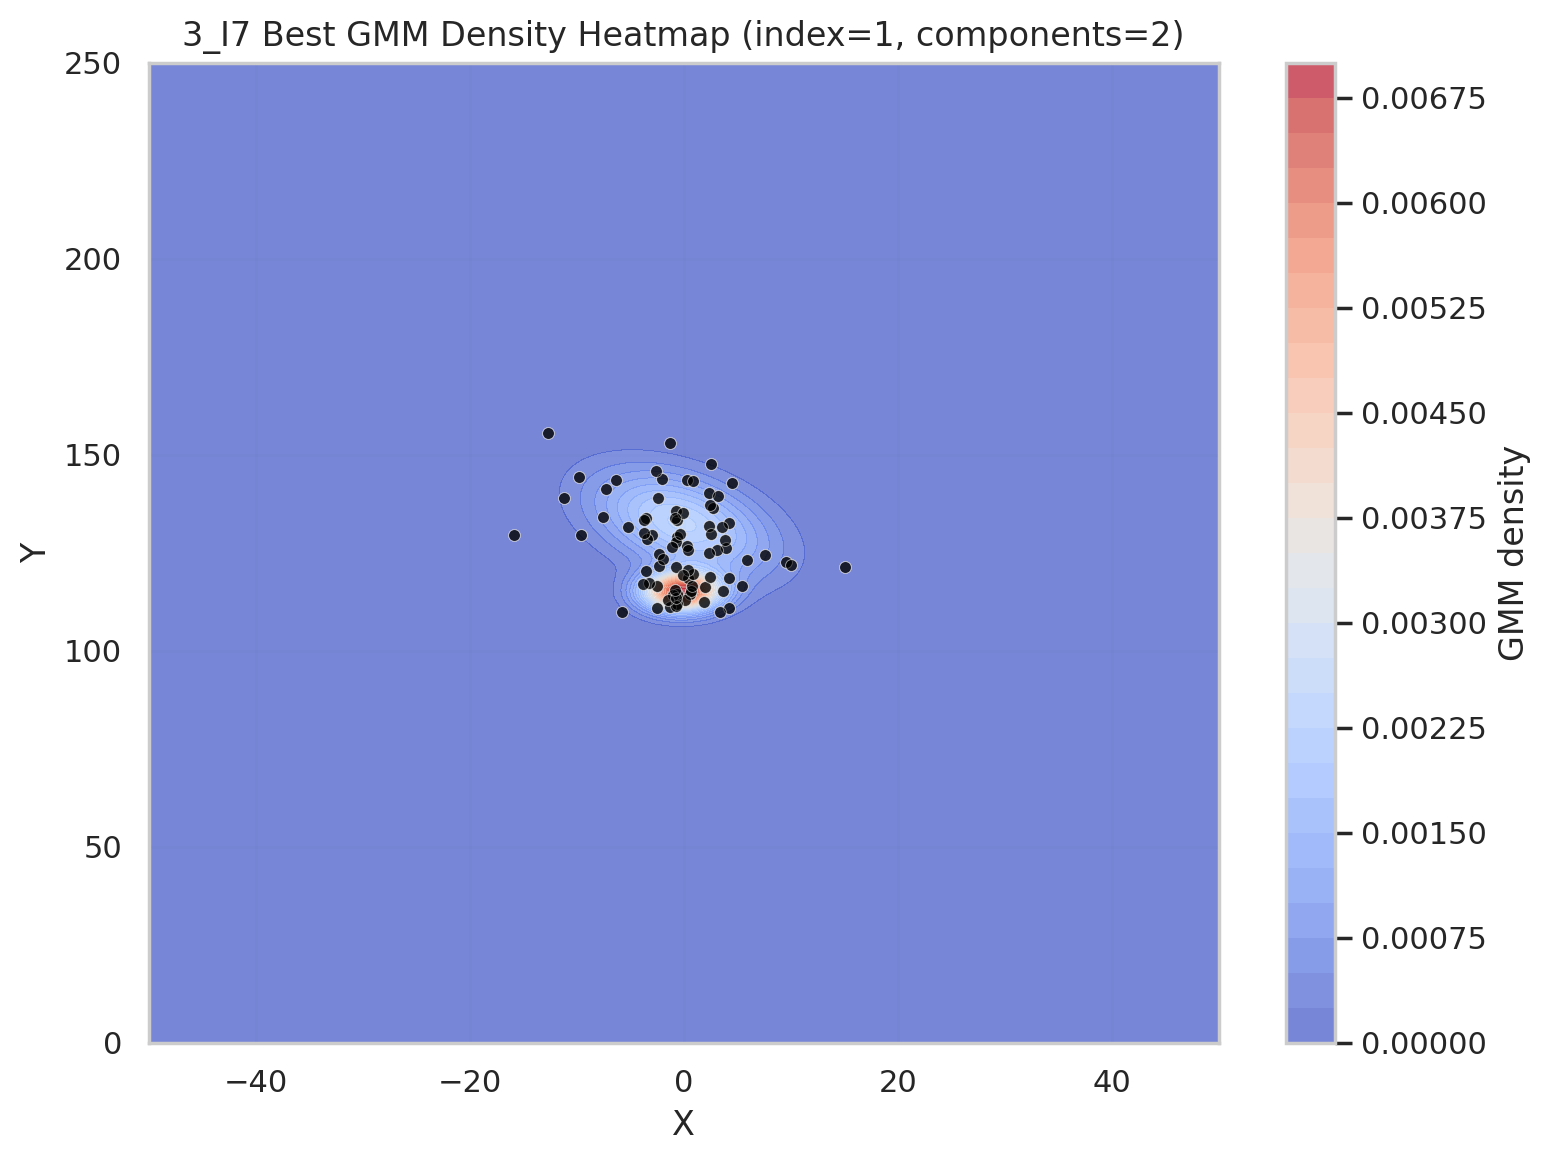
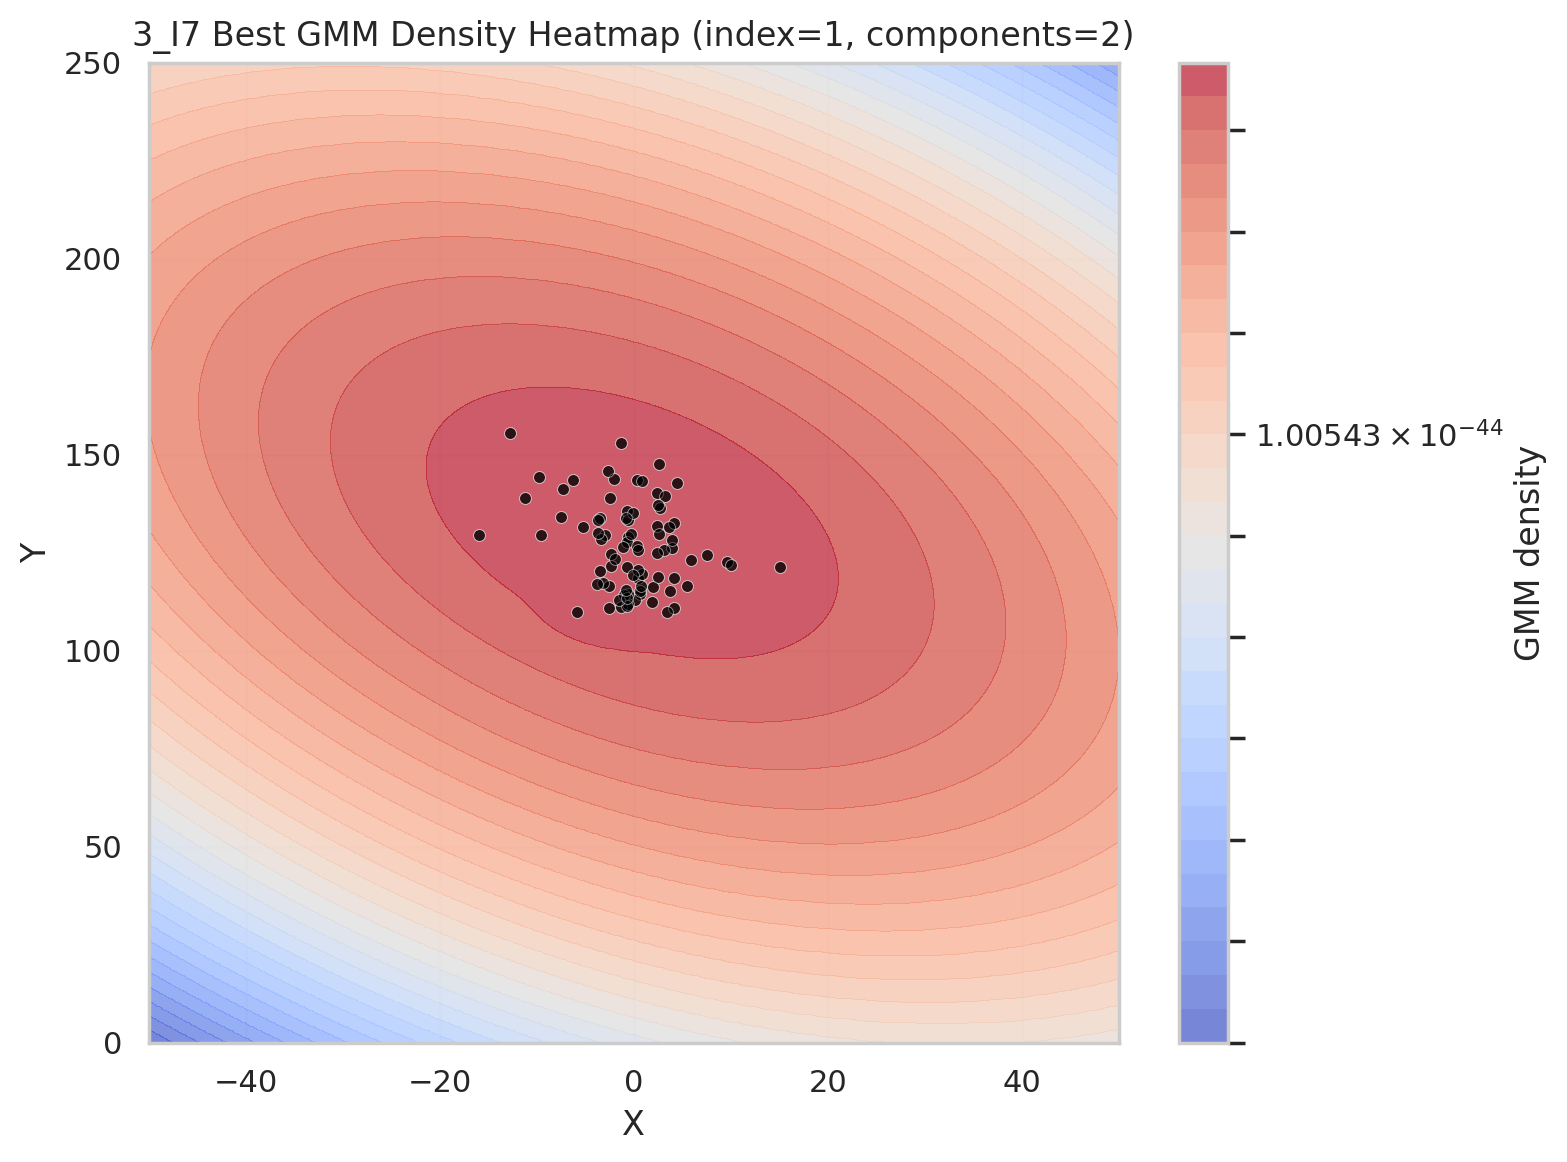
visuals

diff --git a/Visuals/visuals.py b/Visuals/visuals.py
@@ -1,3 +1,4 @@
+from matplotlib import colors
 from matplotlib.patches import Ellipse
 import matplotlib.pyplot as plt
 import numpy as np
@@ -175,11 +176,18 @@ def plot_gmm_heat(gmms, best_idx, data, name):
     density = np.exp(log_density).reshape(xx.shape)
 
     fig, ax = plt.subplots(figsize=(8, 6))
+    positive_density = density[density > 0]
+    if positive_density.size == 0:
+        raise ValueError("GMM density must contain positive values for heatmap plotting.")
+
+    vmin = positive_density.min()
+    vmax = positive_density.max()
     heat = ax.contourf(
         xx,
         yy,
         density,
-        levels=30,
+        levels=np.geomspace(vmin, vmax, 30),
+        norm=colors.LogNorm(vmin=vmin, vmax=vmax),
         cmap="coolwarm",
         alpha=0.7,
     )
@@ -207,4 +215,68 @@ def plot_gmm_heat(gmms, best_idx, data, name):
     ax.grid(alpha=0.15)
     fig.tight_layout()
     fig.savefig(output_dir / "gmm_best_model_heat.png", dpi=200, bbox_inches="tight")
+    plt.close(fig)
+
+def plot_gmm_samples(gmms, best_idx, data, name, n_samples=100):
+    """Save a two-panel figure showing data and GMM samples from the best model.
+
+    Args:
+        gmms (list): List of fitted sklearn GaussianMixture models.
+        best_idx (int): Index of the best model in gmms.
+        data (DataFrame): Data containing X and Y columns used for plotting.
+        name (str): Golfer name; outputs are saved under Visuals/<name>/.
+        n_samples (int): Number of points to sample from the best GMM.
+    """
+    if not gmms:
+        raise ValueError("gmms must contain at least one fitted model.")
+    if best_idx < 0 or best_idx >= len(gmms):
+        raise IndexError("best_idx is out of range for gmms.")
+
+    features = data[["X", "Y"]].copy()
+    x = features["X"].to_numpy()
+    y = features["Y"].to_numpy()
+
+    output_dir = Path(__file__).resolve().parent / str(name)
+    output_dir.mkdir(parents=True, exist_ok=True)
+
+    best_gmm = gmms[best_idx]
+    sampled_points, _ = best_gmm.sample(n_samples)
+
+    fig, (ax_data, ax_samples) = plt.subplots(1, 2, figsize=(14, 6), sharex=True, sharey=True)
+
+    ax_data.scatter(
+        x,
+        y,
+        s=18,
+        alpha=0.55,
+        color="tab:blue",
+        edgecolors="white",
+        linewidths=0.3,
+    )
+    ax_data.set_title(f"{name} Data Scatter")
+
+    ax_samples.scatter(
+        sampled_points[:, 0],
+        sampled_points[:, 1],
+        s=20,
+        alpha=0.7,
+        color="tab:orange",
+        edgecolors="white",
+        linewidths=0.3,
+    )
+    ax_samples.set_title(f"{name} GMM Samples (index={best_idx}, n={n_samples})")
+
+    for ax in (ax_data, ax_samples):
+        ax.set_xlabel("X")
+        ax.set_ylabel("Y")
+        ax.set_xlim(X_MIN, X_MAX)
+        ax.set_ylim(Y_MIN, Y_MAX)
+        ax.grid(alpha=0.15)
+
+    fig.suptitle(f"{name} Data vs. Best GMM Samples", fontsize=16)
+    fig.tight_layout(rect=[0, 0, 1, 0.95])
+    if best_idx == 0:
+        fig.savefig(output_dir / "gmm_best_model_samples_1comp.png", dpi=200, bbox_inches="tight")
+    else:
+        fig.savefig(output_dir / "gmm_best_model_samples.png", dpi=200, bbox_inches="tight")
     plt.close(fig)
